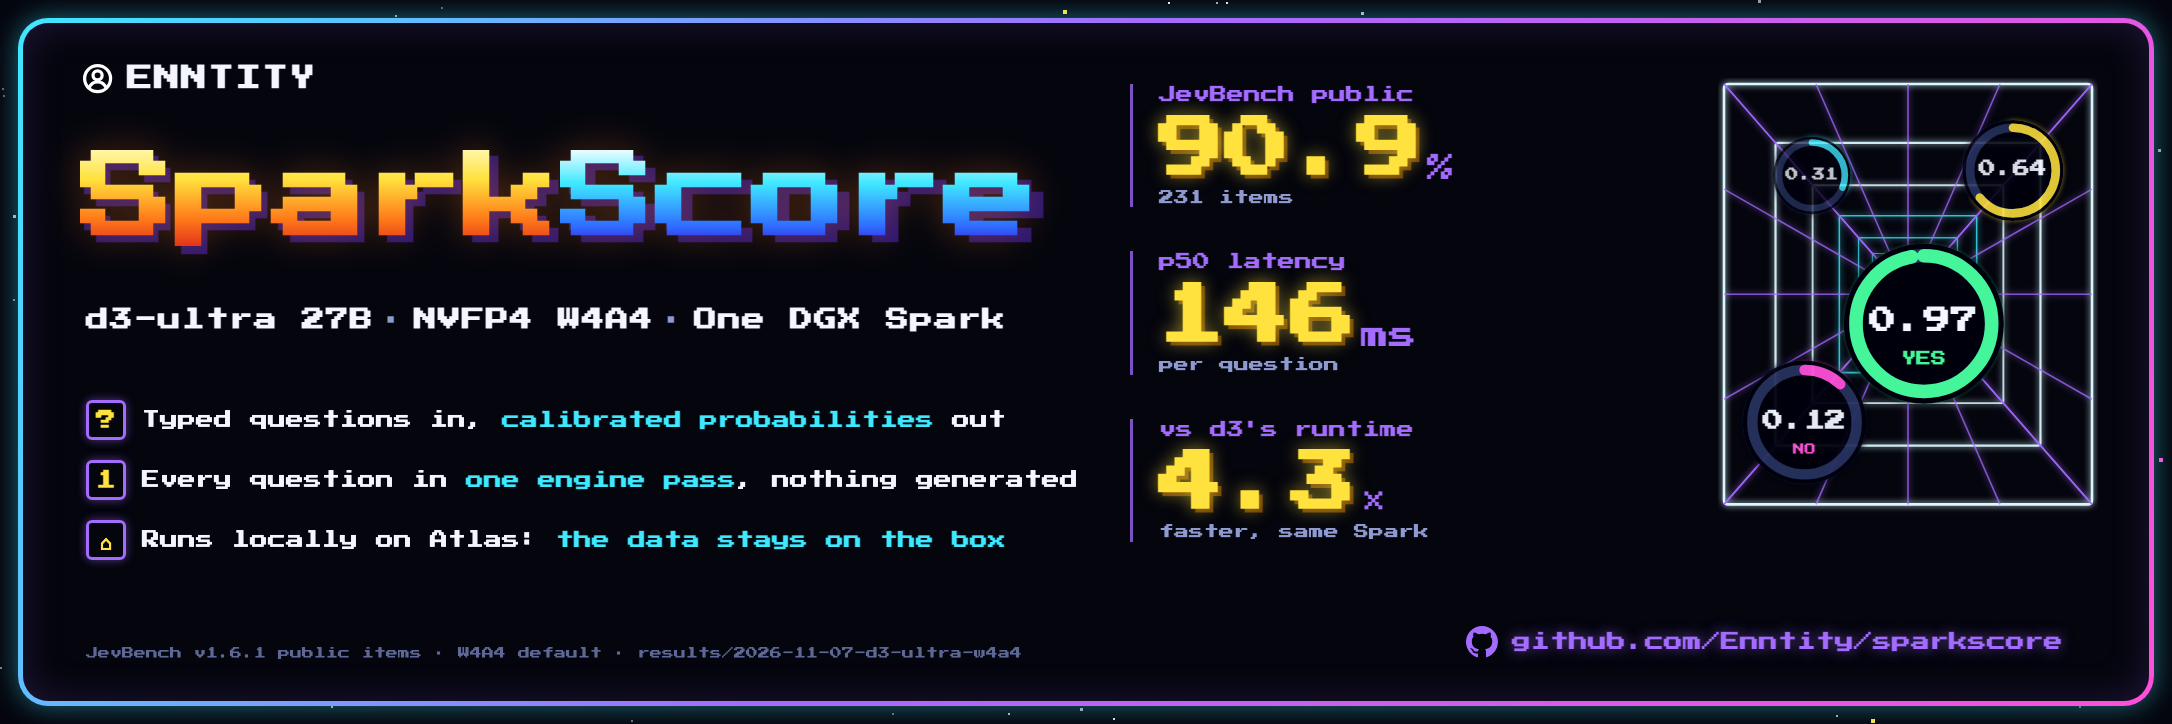
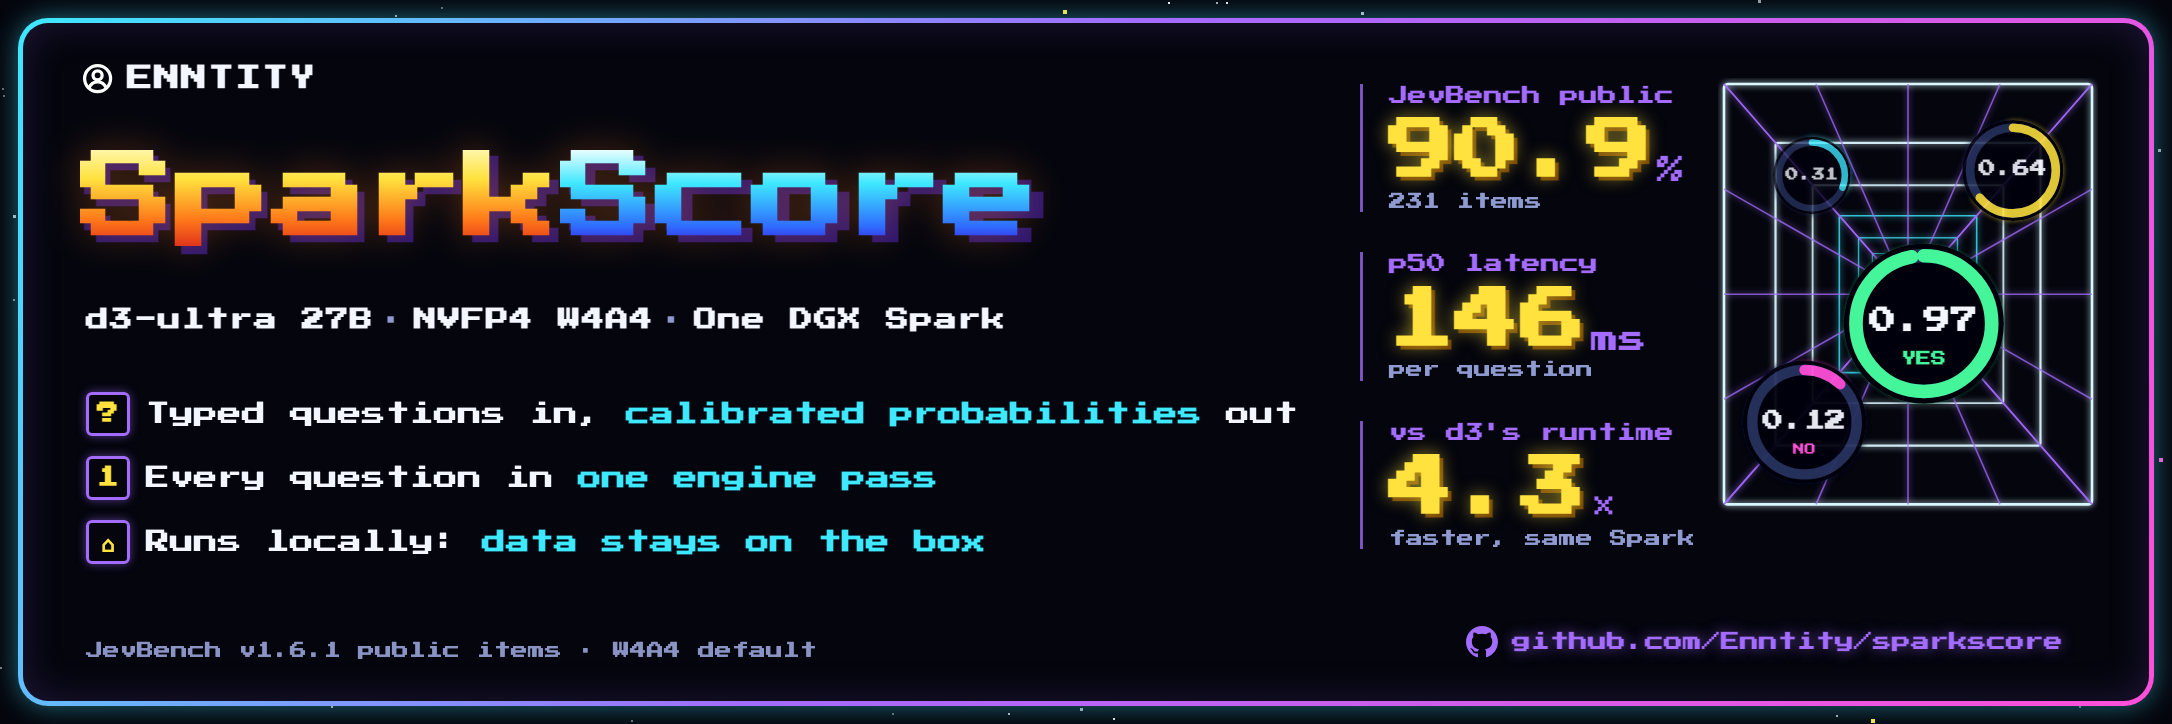
docs: larger feature lines and footer on the cards
At README width the banner's feature lines rendered at about 7 px and the
footer at 5 px. They are now 24 px and 17 px on the banner (16 px lines on
the social card), with the lines shortened to fit.

diff --git a/docs/assets/cards.html b/docs/assets/cards.html
@@ -48,7 +48,7 @@
     font-family: "Press Start 2P"; font-weight: 700; box-shadow: 0 0 10px rgba(164, 107, 255, 0.5); }
   .gh { position: absolute; display: flex; align-items: center; gap: 14px; font-weight: 700; color: var(--violet); white-space: nowrap;
     text-shadow: 0 0 14px rgba(164, 107, 255, 0.55); }
-  .foot { position: absolute; color: #5d6896; white-space: nowrap; }
+  .foot { position: absolute; color: #8a94c4; white-space: nowrap; }
   #viz { position: absolute; }
 </style>
 </head>
@@ -66,12 +66,12 @@
 </div>
 <div class="feats" id="feats">
   <div class="feat"><div class="ico">?</div><span>Typed questions in, <b>calibrated probabilities</b> out</span></div>
-  <div class="feat"><div class="ico">1</div><span>Every question in <b>one engine pass</b>, nothing generated</span></div>
-  <div class="feat"><div class="ico">⌂</div><span>Runs locally on Atlas: <b>the data stays on the box</b></span></div>
+  <div class="feat"><div class="ico">1</div><span>Every question in <b>one engine pass</b></span></div>
+  <div class="feat"><div class="ico">⌂</div><span>Runs locally: <b>data stays on the box</b></span></div>
 </div>
 <svg id="viz"></svg>
 <div class="gh" id="gh"><svg viewBox="0 0 16 16" fill="currentColor"><path d="M8 0C3.58 0 0 3.58 0 8c0 3.54 2.29 6.53 5.47 7.59.4.07.55-.17.55-.38 0-.19-.01-.82-.01-1.49-2.01.37-2.53-.49-2.69-.94-.09-.23-.48-.94-.82-1.13-.28-.15-.68-.52-.01-.53.63-.01 1.08.58 1.23.82.72 1.21 1.87.87 2.33.66.07-.52.28-.87.51-1.07-1.78-.2-3.64-.89-3.64-3.95 0-.87.31-1.59.82-2.15-.08-.2-.36-1.02.08-2.12 0 0 .67-.21 2.2.82.64-.18 1.32-.27 2-.27.68 0 1.36.09 2 .27 1.53-1.04 2.2-.82 2.2-.82.44 1.1.16 1.92.08 2.12.51.56.82 1.27.82 2.15 0 3.07-1.87 3.75-3.65 3.95.29.25.54.73.54 1.48 0 1.07-.01 1.93-.01 2.2 0 .21.15.46.55.38A8.013 8.013 0 0016 8c0-4.42-3.58-8-8-8z"/></svg><span>github.com/Enntity/sparkscore</span></div>
-<div class="foot" id="foot">JevBench v1.6.1 public items · W4A4 default · results/2026-11-07-d3-ultra-w4a4</div>
+<div class="foot" id="foot">JevBench v1.6.1 public items · W4A4 default</div>
 <script>
 const P = new URLSearchParams(location.search);
 const CARD = P.get("card") || "social";
@@ -80,12 +80,12 @@ const CARD = P.get("card") || "social";
 const L = {
   social: { w: 1280, h: 640,
     brand: [58, 52, 20], title: [58, 112, 76], sub: [62, 226, 17],
-    stats: [62, 288, 13, 50, 12], statsCol: false, gap: 24, feats: [62, 470, 14, 42, 30],
-    viz: [892, 60, 330, 410], gh: [836, 570, 12, 24], foot: null },
+    stats: [62, 288, 13, 50, 12], statsCol: false, gap: 24, feats: [62, 466, 16, 46, 32],
+    viz: [900, 56, 322, 400], gh: [858, 572, 12, 24], foot: null },
   banner: { w: 2172, h: 724,
     brand: [82, 62, 26], title: [80, 150, 96], sub: [86, 306, 23],
-    stats: [1130, 84, 17, 66, 15], statsCol: true, rowgap: 44, feats: [86, 400, 18, 60, 40],
-    viz: [1718, 78, 380, 470], gh: [1466, 626, 19, 32], foot: [86, 646, 12] },
+    stats: [1360, 84, 19, 66, 17], statsCol: true, rowgap: 40, feats: [86, 392, 24, 64, 44],
+    viz: [1718, 78, 380, 470], gh: [1466, 626, 19, 32], foot: [86, 640, 17] },
 }[CARD];
 document.body.style.setProperty("--w", `${L.w}px`);
 document.body.style.setProperty("--h", `${L.h}px`);
